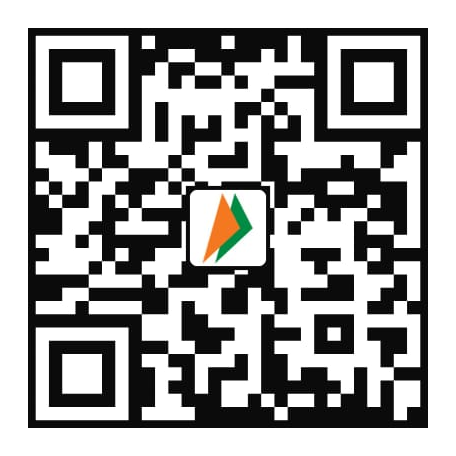
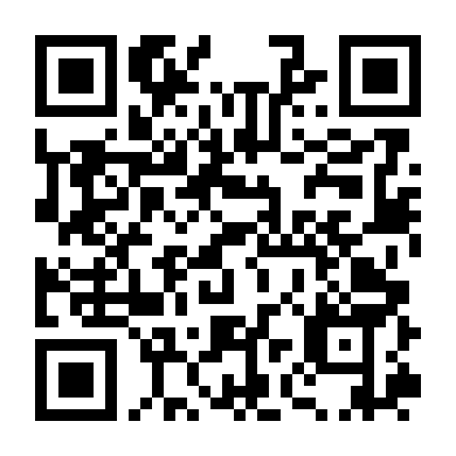
UPI: switch to bram18008-5@oksbi with new QR
Claude-Session: https://claude.ai/code/session_01BBdRJEBJYmVBShwkqF6mDZ

diff --git a/tamilgeethai-site/public/index.html b/tamilgeethai-site/public/index.html
@@ -756,8 +756,8 @@ html{scroll-behavior:auto}
 <p id="sgDM">151 பாடல்கள் PDF உங்கள் WhatsApp எண்ணிற்கு அனுப்பப்படும். 20 நாட்கள் பயிற்சி செய்து 24.12.2026 அன்று கலந்து கொள்ளுங்கள்.</p>
 <div class="sg-upi" id="sgUpi" hidden>
 <p class="sg-upi-t">🙏 நன்கொடை <b id="sgUpiAmt">₹0</b> செலுத்த</p>
-<img src="images/upi-qr.png" alt="UPI QR — 9489690577@upi" width="190" height="190" loading="lazy">
-<p class="sg-upi-id">UPI ID: <b>9489690577@upi</b></p>
+<img src="images/upi-qr.png?v=2" alt="UPI QR — bram18008-5@oksbi" width="190" height="190" loading="lazy">
+<p class="sg-upi-id">UPI ID: <b>bram18008-5@oksbi</b></p>
 <a class="sg-upi-pay" id="sgUpiPay" href="#">📱 UPI App-இல் செலுத்த</a>
 <a class="sg-upi-wa" id="sgUpiWa" target="_blank" rel="noopener" href="#">✅ செலுத்திய screenshot-ஐ WhatsApp-இல் அனுப்ப</a>
 </div>
@@ -1445,7 +1445,7 @@ if('IntersectionObserver' in window){
   var modal=document.getElementById('sgDone');
   function show(title,no,msg,ok,don){
     var up=document.getElementById('sgUpi');up.hidden=!don;
-    if(don){document.getElementById('sgUpiAmt').textContent='₹'+don;document.getElementById('sgUpiPay').href='upi://pay?pa=9489690577@upi&pn=SRAMBABU&am='+don+'&cu=INR&tn='+encodeURIComponent('Tamil Geethai Sangamam '+(no||''));document.getElementById('sgUpiWa').href='https://wa.me/919489690577?text='+encodeURIComponent('வணக்கம். தமிழ் கீதை சங்கமம் நன்கொடை ₹'+don+' செலுத்தியுள்ளேன். பதிவு எண்: '+(no||'')+'. Screenshot இணைத்துள்ளேன்.');}
+    if(don){document.getElementById('sgUpiAmt').textContent='₹'+don;document.getElementById('sgUpiPay').href='upi://pay?pa=bram18008-5@oksbi&pn=Tamil%20Geethai&am='+don+'&cu=INR&tn='+encodeURIComponent('Tamil Geethai Sangamam '+(no||''));document.getElementById('sgUpiWa').href='https://wa.me/919489690577?text='+encodeURIComponent('வணக்கம். தமிழ் கீதை சங்கமம் நன்கொடை ₹'+don+' செலுத்தியுள்ளேன். பதிவு எண்: '+(no||'')+'. Screenshot இணைத்துள்ளேன்.');}
     document.getElementById('sgDT').textContent=title;document.getElementById('sgNo').textContent=no||'—';
     document.querySelector('.sg-no').hidden=!no;
     if(msg)document.getElementById('sgDM').textContent=msg;

diff --git a/tamilgeethai-site/public/register.html b/tamilgeethai-site/public/register.html
@@ -544,10 +544,10 @@
       <div class="upi">
         <div class="pay-amt">₹200 <small>மட்டும்</small></div>
         <p class="upi-step"><b>1.</b> கீழே உள்ள QR-ஐ scan செய்து அல்லது UPI ID-க்கு <b>₹200</b> செலுத்துங்கள்.</p>
-        <img class="upi-qr" src="images/upi-qr.png" alt="UPI QR — 9489690577@upi" width="228" height="228">
-        <p class="upi-id">UPI ID: <b>9489690577@upi</b> <button type="button" class="upi-copy" data-copy="9489690577@upi">நகலெடு</button></p>
-        <a class="upi-pay" href="upi://pay?pa=9489690577@upi&amp;pn=SRAMBABU&amp;am=200&amp;cu=INR&amp;tn=Tamil%20Geethai%20Guru%20Dakshina">📱 UPI App-இல் ₹200 செலுத்த</a>
-        <p class="upi-sub">GPay · PhonePe · Paytm · BHIM — எந்த UPI app-ம் போதும். <a href="images/upi-qr.png" download="tamilgeethai-upi-qr.png">QR படத்தை save செய்ய</a></p>
+        <img class="upi-qr" src="images/upi-qr.png?v=2" alt="UPI QR — bram18008-5@oksbi" width="228" height="228">
+        <p class="upi-id">UPI ID: <b>bram18008-5@oksbi</b> <button type="button" class="upi-copy" data-copy="bram18008-5@oksbi">நகலெடு</button></p>
+        <a class="upi-pay" href="upi://pay?pa=bram18008-5@oksbi&amp;pn=Tamil%20Geethai&amp;am=200&amp;cu=INR&amp;tn=Tamil%20Geethai%20Guru%20Dakshina">📱 UPI App-இல் ₹200 செலுத்த</a>
+        <p class="upi-sub">GPay · PhonePe · Paytm · BHIM — எந்த UPI app-ம் போதும். <a href="images/upi-qr.png?v=2" download="tamilgeethai-upi-qr.png">QR படத்தை save செய்ய</a></p>
         <div class="field" id="field-upishot">
           <label><b>2.</b> பணம் செலுத்திய Screenshot-ஐ upload செய்யவும்<span class="req">*</span></label>
           <label class="upi-file"><input type="file" id="upiShot" accept="image/*"><span id="upiShotName">📷 Screenshot தேர்ந்தெடுக்க</span></label>
